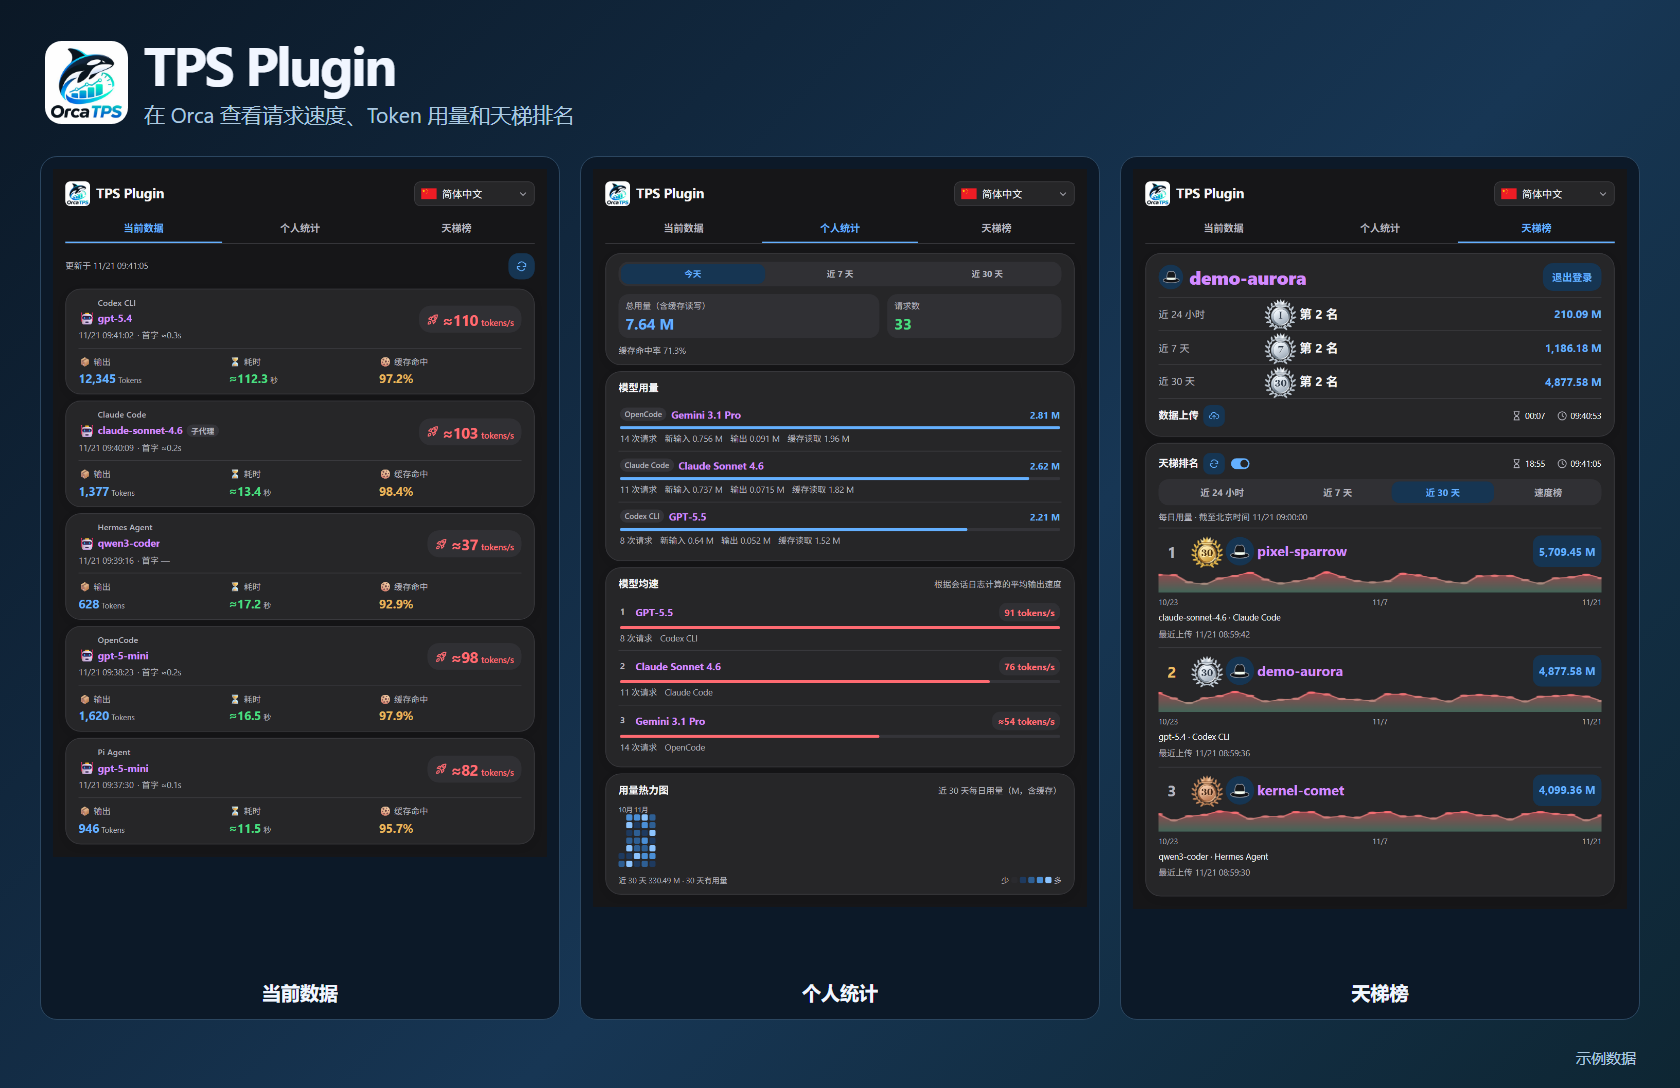
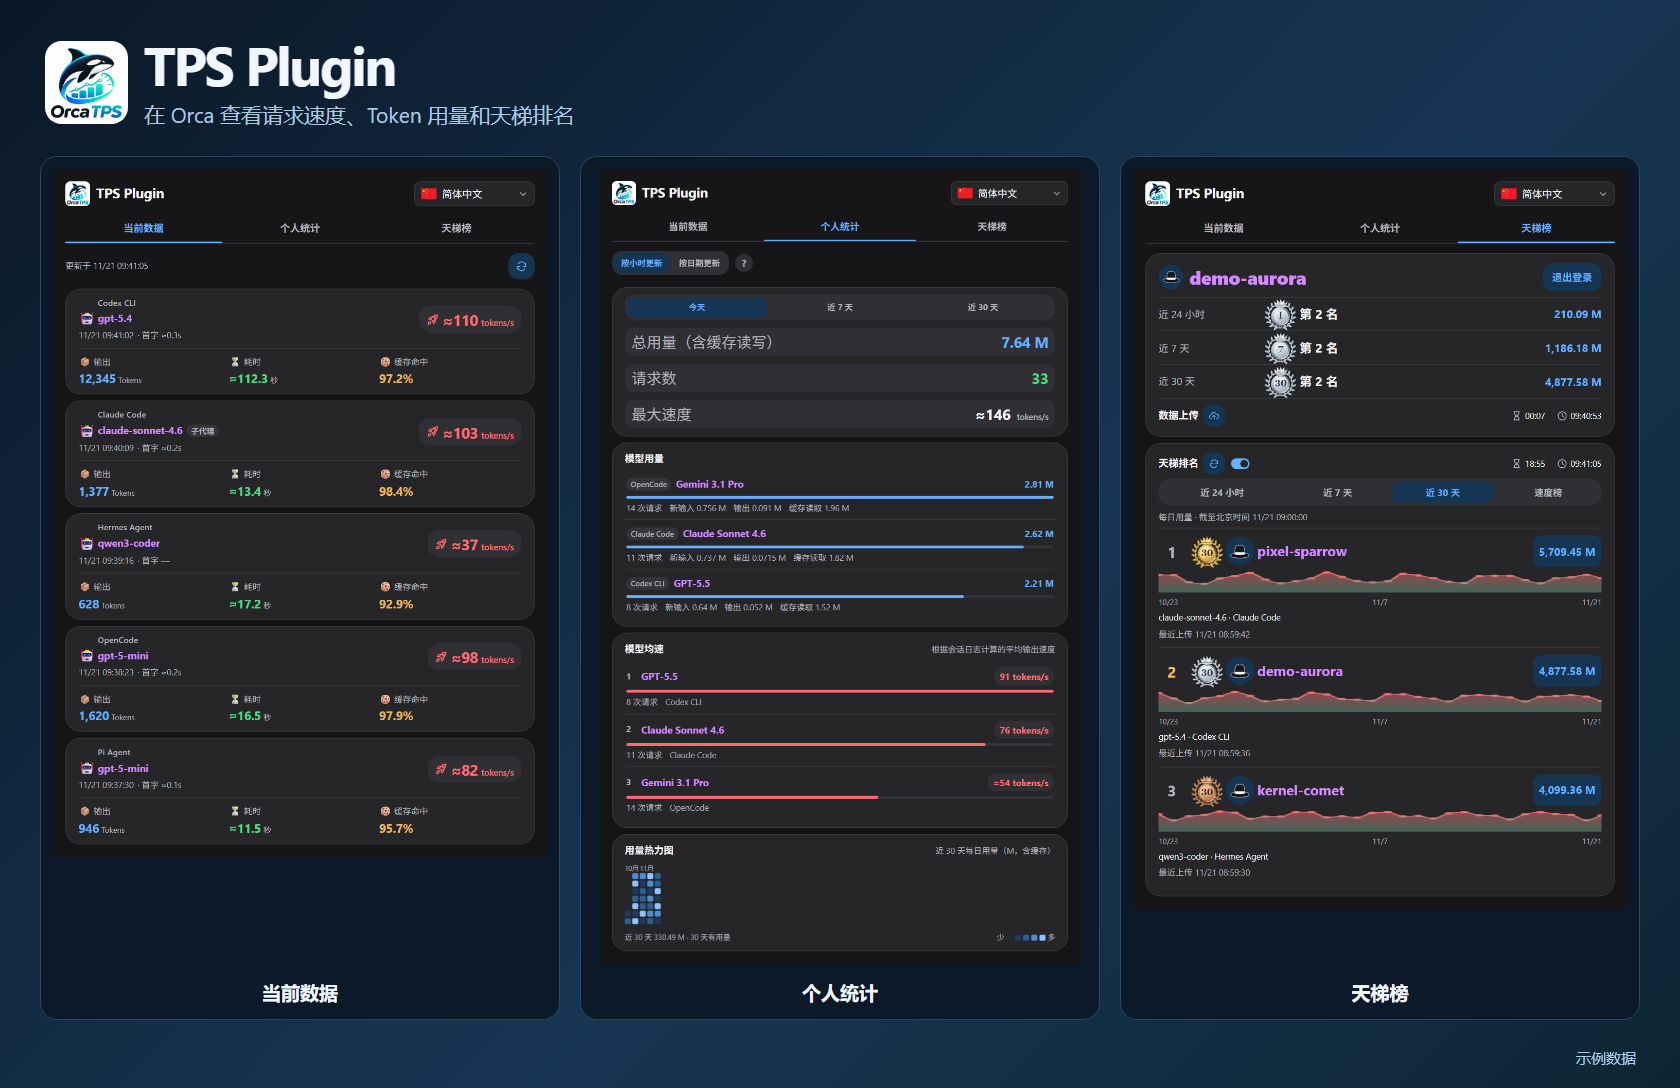
feat: show today's maximum speed in Personal Stats
Stack the summary metrics with 20px labels and values. Match the maximum request speed to the selected update mode and refresh the bilingual documentation and screenshots.

Changed region(s): [[0.3405, 0.1562, 0.65, 0.875], [0.5571, 0.375, 0.65, 0.4062], [0.5571, 0.7188, 0.619, 0.75]]

diff --git a/src/panel.html b/src/panel.html
@@ -434,10 +434,14 @@
       background: var(--surface); color: var(--ink); box-shadow: 0 5px 18px rgb(0 0 0 / 15%); font-size: 11px; overflow-wrap: anywhere;
     }
     .war-mode-hint li + li { margin-top: 4px; }
-    .war-totals { display: grid; grid-template-columns: minmax(0, 1.5fr) minmax(0, 1fr); gap: 10px; margin-top: 10px; }
-    .war-stat { min-width: 0; padding: 7px 9px; border-radius: 13px; background: var(--speed-bg); }
-    .war-label { display: block; color: var(--muted); font-size: 11px; }
-    .war-value { display: block; margin-top: 2px; font-size: 20px; line-height: 1.2; font-weight: 750; letter-spacing: -.3px; font-variant-numeric: tabular-nums; overflow-wrap: anywhere; }
+    .war-totals { display: grid; grid-template-columns: minmax(0, 1fr); gap: 10px; margin-top: 10px; }
+    .war-stat {
+      display: grid; grid-template-columns: minmax(0, 1fr) auto; align-items: baseline; gap: 8px;
+      min-width: 0; padding: 7px 9px; border-radius: 13px; background: var(--speed-bg);
+    }
+    .war-label, .war-value { font-size: 20px; line-height: 1.2; }
+    .war-label { color: var(--muted); overflow: hidden; text-overflow: ellipsis; white-space: nowrap; }
+    .war-value { font-weight: 750; letter-spacing: -.3px; font-variant-numeric: tabular-nums; white-space: nowrap; }
     .war-value.tokens { color: var(--blue); }
     .war-value.requests { color: var(--green); }
     .war-value small { margin-inline-start: 3px; color: var(--muted); font-size: 11px; font-weight: 600; letter-spacing: 0; }
@@ -506,7 +510,6 @@
       .ladder-toolbar-field svg { width: 12px; height: 12px; }
       .ladder-rows li { --ladder-row-gap: 6px; }
       .war-totals { gap: 6px; }
-      .war-value { font-size: 17px; }
       .ladder-total { padding-inline: 6px; font-size: 12px; }
     }
     @media (prefers-reduced-motion: reduce) {
@@ -680,12 +683,16 @@
         </div>
         <div class="war-totals">
           <div class="war-stat">
-            <span class="war-label"><span data-i18n="total-usage"></span></span>
+            <span class="war-label" data-i18n="total-usage" data-i18n-title="total-usage"></span>
             <strong class="war-value tokens" id="war-tokens" data-testid="war-tokens">—</strong>
           </div>
           <div class="war-stat">
-            <span class="war-label"><span data-i18n="request-count"></span></span>
+            <span class="war-label" data-i18n="request-count" data-i18n-title="request-count"></span>
             <strong class="war-value requests" id="war-requests" data-testid="war-requests">—</strong>
+          </div>
+          <div class="war-stat" id="war-max-speed-row">
+            <span class="war-label" data-i18n="max-speed" data-i18n-title="max-speed"></span>
+            <strong class="war-value"><span id="war-max-speed" data-testid="war-max-speed">—</span> <small id="war-max-speed-unit" hidden>tokens/s</small></strong>
           </div>
         </div>
       </section>
@@ -1194,6 +1201,12 @@
         }
         byId('war-tokens').textContent = range ? formatMillionTokens(range.tokens) : '—';
         byId('war-requests').textContent = range ? formatCount(range.requests) : '—';
+        const maxSpeed = range?.maxSpeed;
+        const hasMaxSpeed = Number.isFinite(maxSpeed?.tokensPerSecond) && maxSpeed.tokensPerSecond > 0;
+        byId('war-max-speed-row').hidden = usageRange !== 'today';
+        byId('war-max-speed').textContent = hasMaxSpeed
+          ? `${maxSpeed.estimated ? '≈' : ''}${speedText(maxSpeed.tokensPerSecond)}` : '—';
+        byId('war-max-speed-unit').hidden = !hasMaxSpeed;
         const list = Array.isArray(range?.rows) ? range.rows : [];
         const signature = JSON.stringify([usageRange, usageMode, list, range?.speeds]);
         if (signature !== drawnUsage) {

diff --git a/README.md b/README.md
@@ -40,7 +40,7 @@ Open **TPS Plugin** in Orca’s right sidebar to switch between **Current Data**
 
 ### 3.2 Personal Stats
 
-- Review usage and request counts for today, the last 7 days, or the last 30 days.
+- Review usage and request counts for today, the last 7 days, or the last 30 days. Today's summary also shows the highest generation speed for a single request.
 - Break down usage by tool and model, and compare average model generation speeds. Usage is shown in millions of tokens (M) and includes new input, output, cache reads, and cache writes.
 - See daily activity over the past 30 days in the heatmap. Request statistics, panel snapshots, and pending uploads are stored in a local SQLite database.
 - Usage history is cached locally and restored when Orca restarts.
